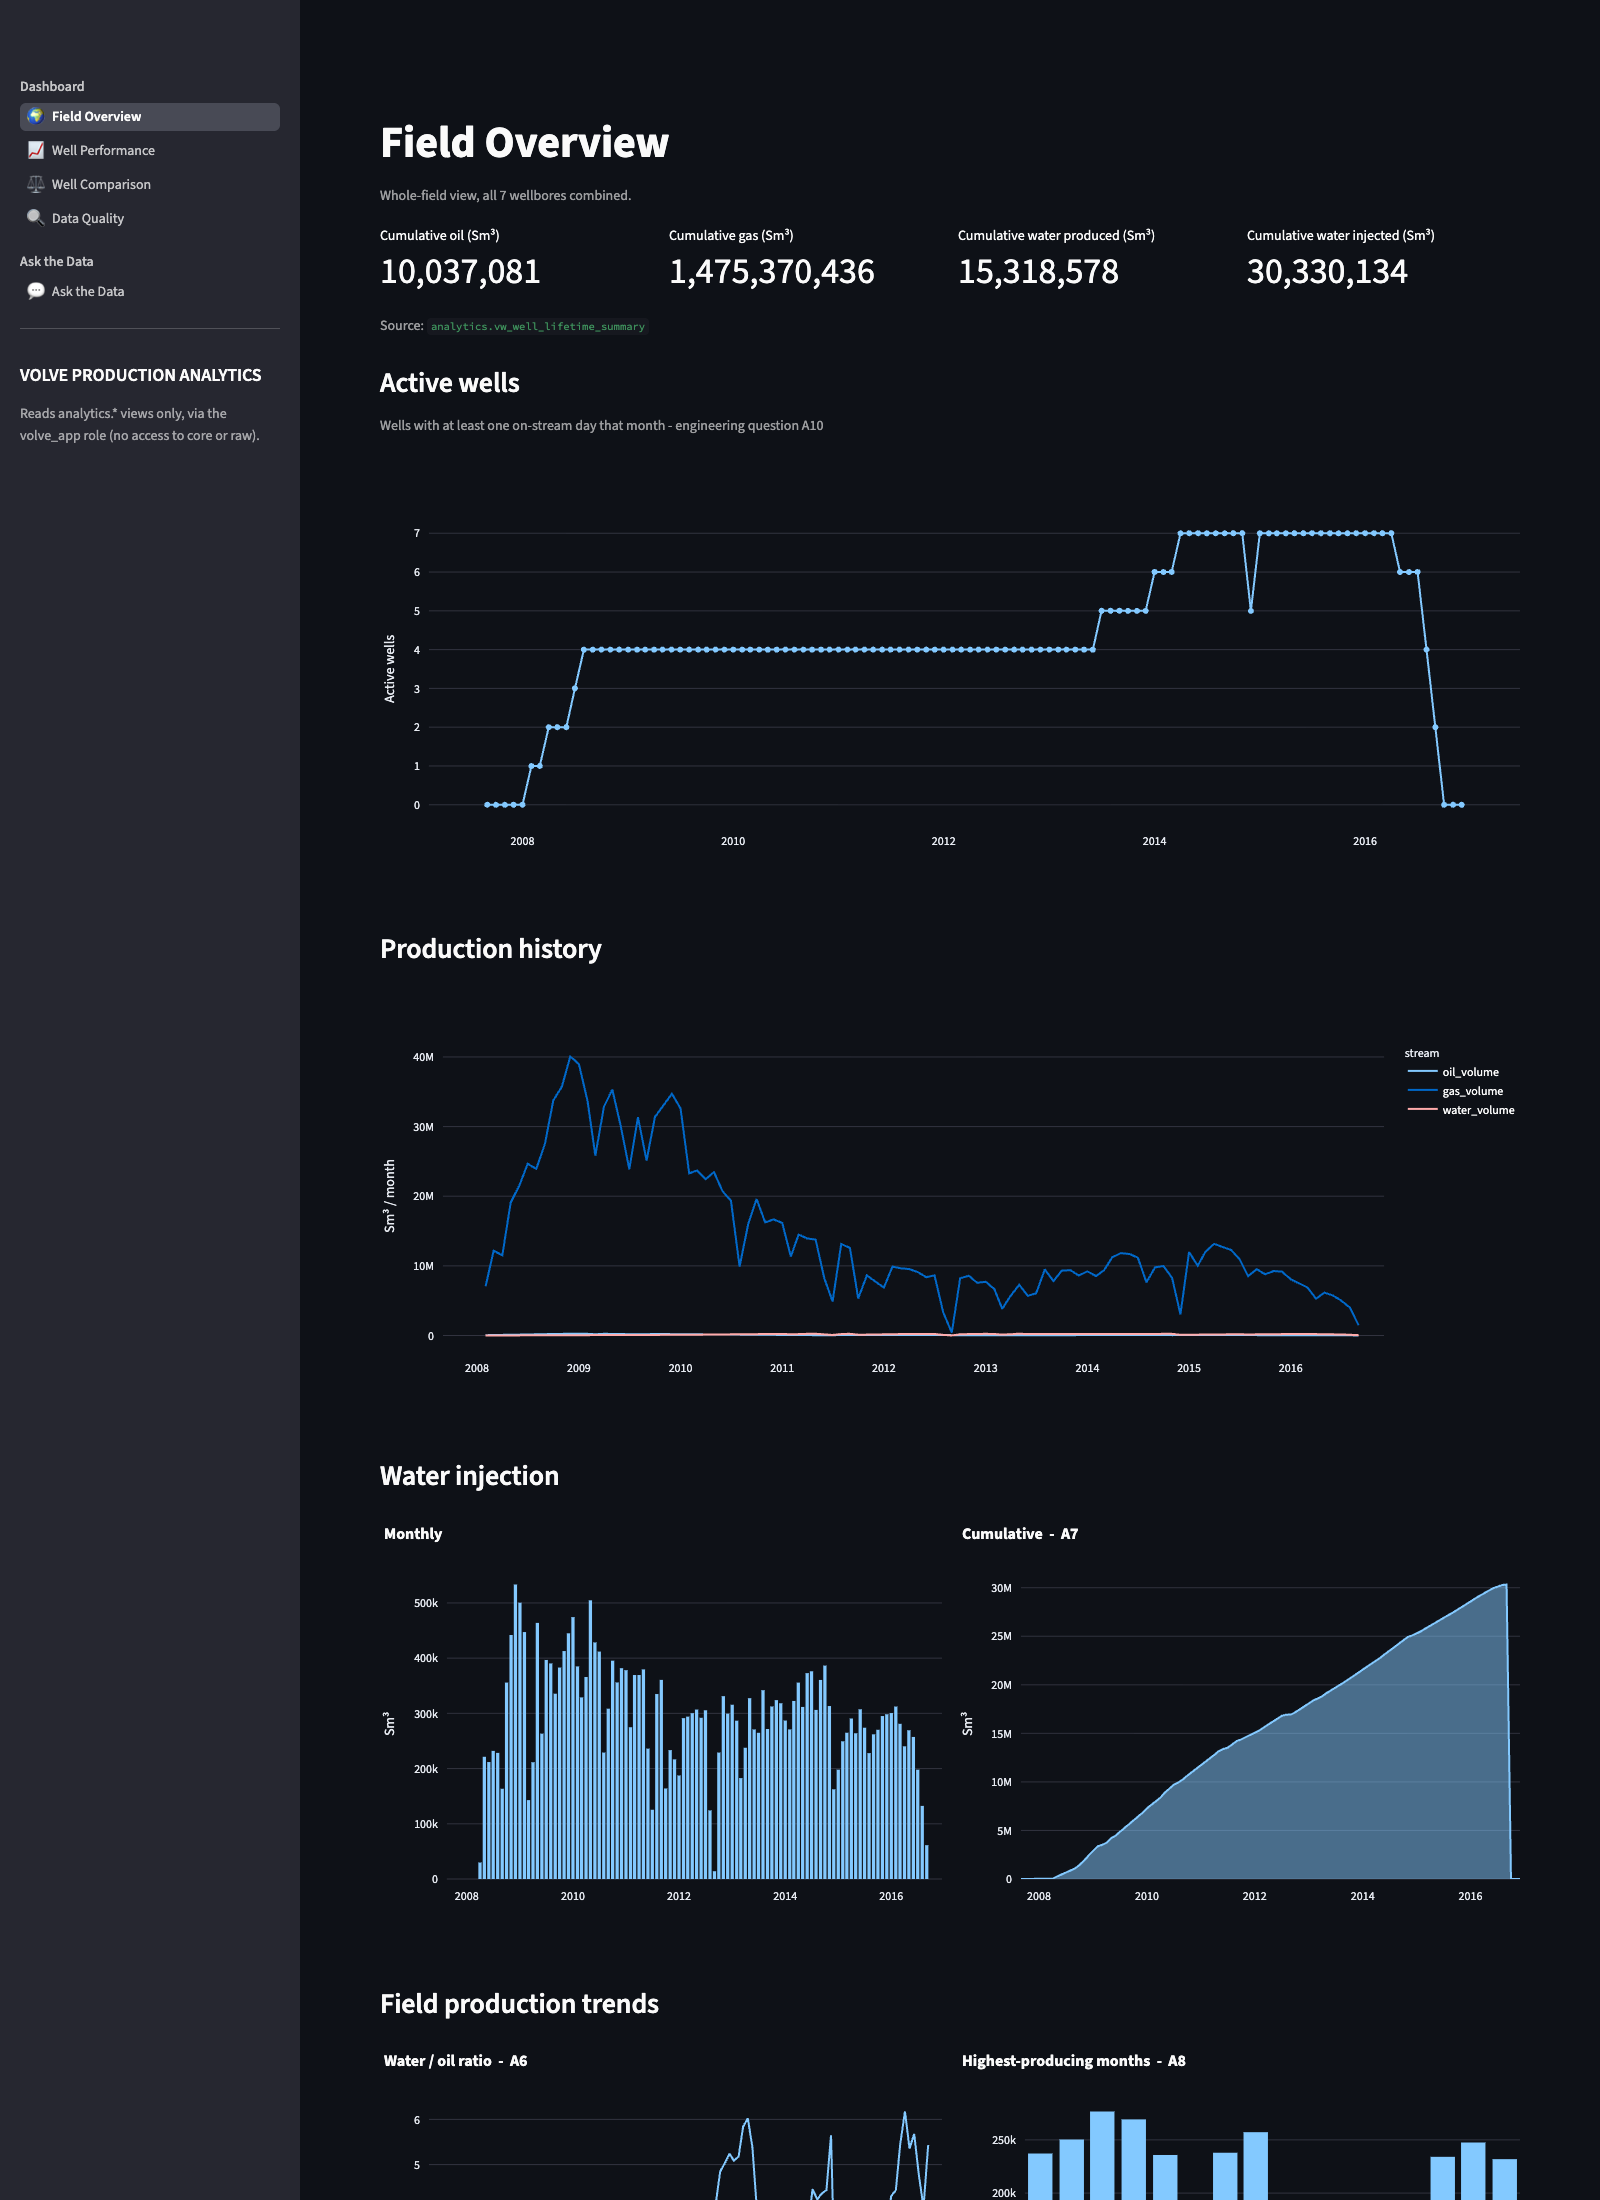
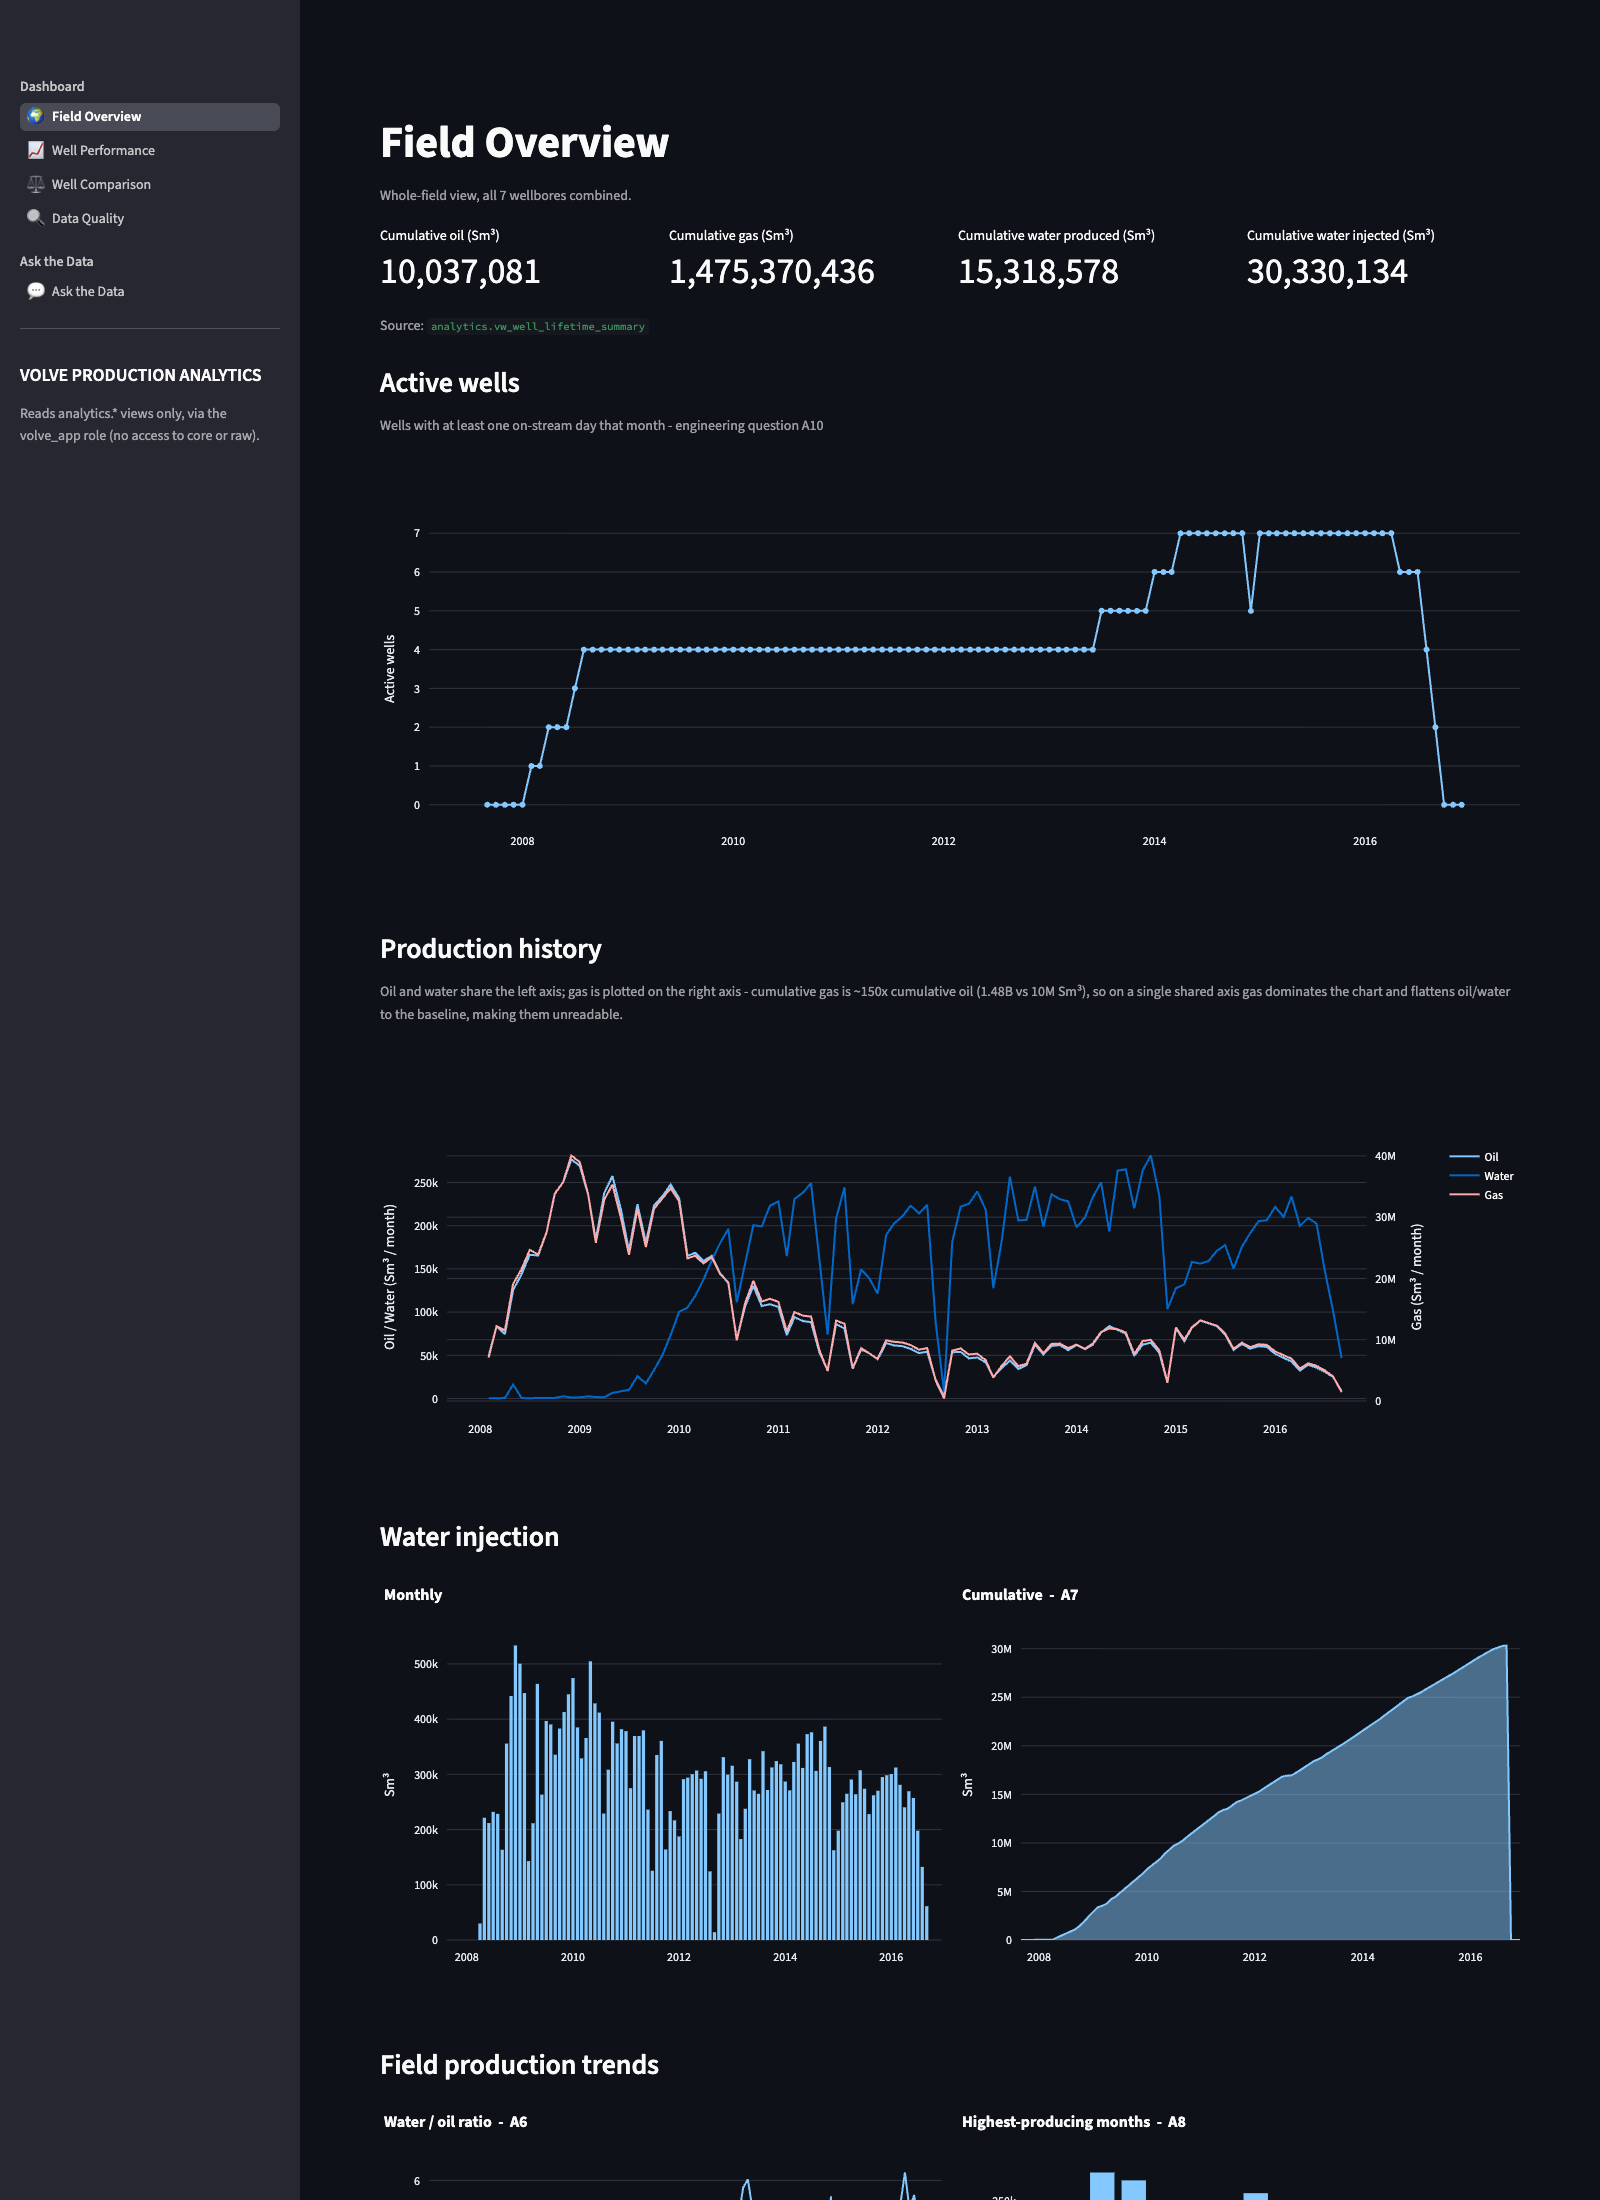
Fix unreadable oil/water lines on Field Overview production chart
Cumulative gas is ~150x cumulative oil (1.48B vs 10M Sm3), so plotting
oil/gas/water on one shared y-axis flattened oil and water to the
baseline - only gas was visible. Split into a dual-axis chart: oil and
water share the left axis, gas gets its own axis on the right. Updated
README screenshot to match.

diff --git a/app/views/field_overview.py b/app/views/field_overview.py
@@ -4,6 +4,8 @@ from pathlib import Path
 sys.path.insert(0, str(Path(__file__).resolve().parent.parent))
 
 import plotly.express as px
+import plotly.graph_objects as go
+from plotly.subplots import make_subplots
 import streamlit as st
 
 import queries as q
@@ -28,14 +30,27 @@ fig.update_layout(yaxis_title="Active wells", xaxis_title=None)
 st.plotly_chart(fig, width="stretch")
 
 st.subheader("Production history")
-prod_long = field.melt(
-    id_vars="month_start",
-    value_vars=["oil_volume", "gas_volume", "water_volume"],
-    var_name="stream",
-    value_name="volume",
+st.caption(
+    "Oil and water share the left axis; gas is plotted on the right axis - "
+    "cumulative gas is ~150x cumulative oil (1.48B vs 10M Sm³), so on a "
+    "single shared axis gas dominates the chart and flattens oil/water to "
+    "the baseline, making them unreadable."
 )
-fig2 = px.line(prod_long, x="month_start", y="volume", color="stream")
-fig2.update_layout(yaxis_title="Sm³ / month", xaxis_title=None)
+fig2 = make_subplots(specs=[[{"secondary_y": True}]])
+fig2.add_trace(
+    go.Scatter(x=field["month_start"], y=field["oil_volume"], name="Oil", mode="lines"),
+    secondary_y=False,
+)
+fig2.add_trace(
+    go.Scatter(x=field["month_start"], y=field["water_volume"], name="Water", mode="lines"),
+    secondary_y=False,
+)
+fig2.add_trace(
+    go.Scatter(x=field["month_start"], y=field["gas_volume"], name="Gas", mode="lines"),
+    secondary_y=True,
+)
+fig2.update_yaxes(title_text="Oil / Water (Sm³ / month)", secondary_y=False)
+fig2.update_yaxes(title_text="Gas (Sm³ / month)", secondary_y=True)
 st.plotly_chart(fig2, width="stretch")
 
 st.subheader("Water injection")
